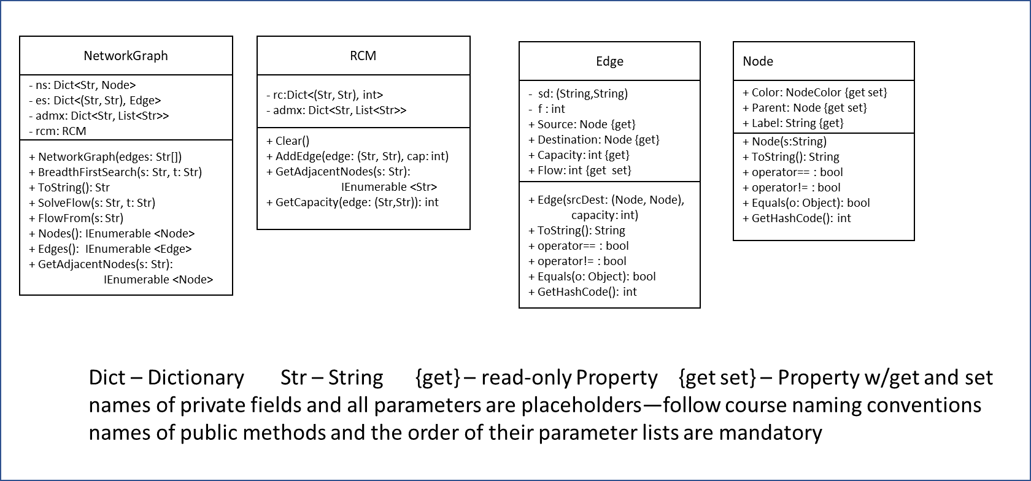
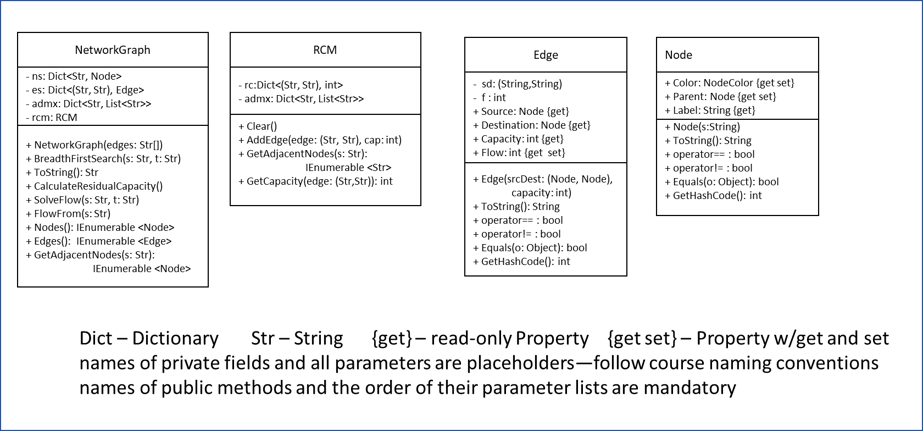
Updated access modifiers to facilitate testing

diff --git a/docs/index.md b/docs/index.md
@@ -174,8 +174,9 @@ A Flow Network graph consists of 4 private collections or objects:
 1. A Dictionary<String, List&lt;Node>> containing lists of the nodes connected by an edge to the initial node; an adjacency matrix .  The list is accessed by the source node's Label.
 1. A RCM-object used to find incremental flows.
 
-A Flow Network graph consists of 8 public methods:
+A Flow Network graph consists of 9 public methods:
 * A constructor taking an array of "source-label, destination-label, capacity" _edge_ strings.  It will process each string, adding the edge and nodes to the appropriate private dictionaries. Note: edges and nodes may only be added during instantiation.
+* CalculateResidualCapacity -- clears existing RCM and then follows the algorithm above to fill it based on current edge states.  Method is public to facilitate testing.
 * BreadthFirstSearch(String start)-- which takes a string representing the starting node.  It must follow the BFS algorithm given above.  This method determines and assigns graph nodes' Parent and Color properties with the values calculated by the search.  This method is 'public' to facilitate testing.
 * SolveFlow(String start, String finish) - which takes strings representing the source and sink nodes.  It must follow the "Finding the Maximum Flow" algorithm above. This method determines and assigns the Flow property value for all th graph's edges. 
 * Three IEnumerable<> methods
